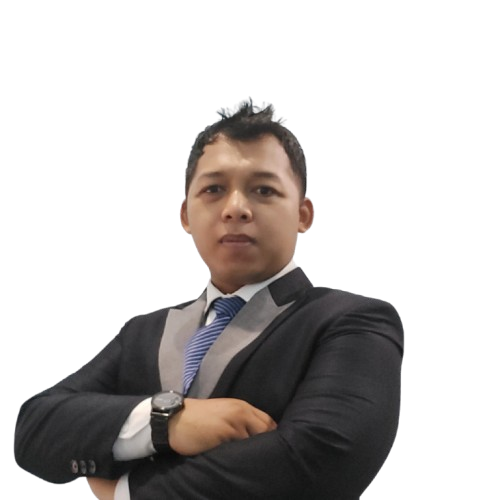
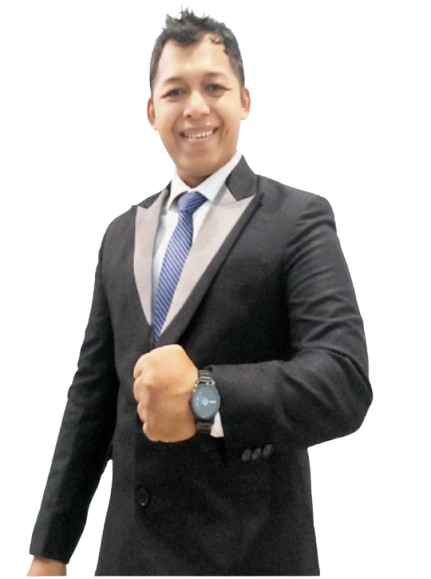
coba

diff --git a/index.html b/index.html
@@ -221,7 +221,7 @@
                         </div>
                     </div>
 
-                    <div class="banner-one__img wow fadeInRight" data-wow-delay="0ms" data-wow-duration="1500ms">
+                    <div class="banner-one__img wow fadeInRight" data-wow-delay="0ms" >
                         <div class="inner">
                             <img src="assets/img/slider/profile.png" alt="banner">
                         </div>

diff --git a/assets/css/module-css/banner.css b/assets/css/module-css/banner.css
@@ -115,7 +115,7 @@
     position: relative;
     display: block;
     overflow: hidden;
-    max-width: 710px;
+    max-width: 650px;
     width: 100%;
     float: right;
     margin-right: -102px;

diff --git a/assets/css/responsive.css b/assets/css/responsive.css
@@ -2547,7 +2547,7 @@
 	}
 
 	.banner-one__img {
-		max-width: 710px;
+		max-width: 650px;
 	}
 
 
